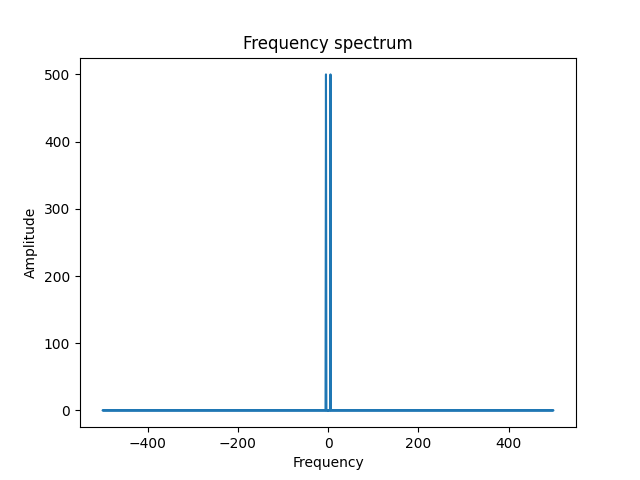
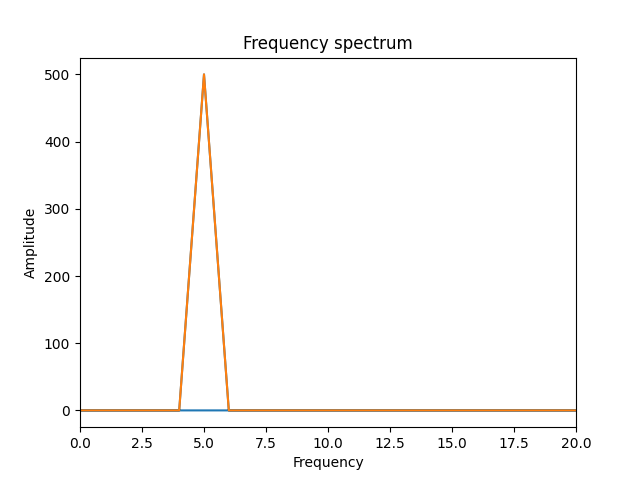
added filters

diff --git a/main.py b/main.py
@@ -2,24 +2,43 @@ import matplotlib.pyplot as plt
 import signal_generator
 import output
 import transform
+import filters
+
 
 # parameters
 fs = 1000
 freq = 5
 duration = 1
 
-# function to generate sine wave
+# generate sine wave
 t, signal = signal_generator.generate_sine(freq, fs, duration)
 output.save_plot(t, signal, "Sine Wave", "Time",
                  "Amplitude", "sine_signal.png")
 
 
-# function to add noise
+# add noise
 noisy_signal = signal_generator.add_noise(signal, 0.5)
 output.save_plot(t, noisy_signal, "Noisy sine wave",
                  "Time", "Amplitude", "noisy_signal.png")
 
-# function for transform signal
-freq, spectrum = transform.compute_fft(signal, fs)
-output.save_plot(freq, spectrum, "Frequency spectrum",
-                 "Frequency", "Amplitude", "freq_spectrum.png")
+# frequency spectrum
+freq, spectrum, N = transform.compute_fft(signal, fs)
+output.save_plot_fft(freq, spectrum, N,  "Frequency spectrum",
+                     "Frequency", "Amplitude", "freq_spectrum.png")
+
+
+# Low-pass
+lpf = filters.apply_filter(noisy_signal, fs, "low", 10)
+output.save_plot(t, lpf, "Low-pass Filtered", "Time", "Amplitude", "lpf.png")
+
+# High-pass
+hpf = filters.apply_filter(noisy_signal, fs, "high", 10)
+output.save_plot(t, hpf, "High-pass Filtered", "Time", "Amplitude", "hpf.png")
+
+# Band-pass
+bpf = filters.apply_filter(noisy_signal, fs, "band", (3, 10))
+output.save_plot(t, bpf, "Band-pass Filtered", "Time", "Amplitude", "bpf.png")
+
+# Moving average
+ma = filters.apply_filter(noisy_signal, fs, "moving_avg", 10)
+output.save_plot(t, ma, "Moving Average", "Time", "Amplitude", "ma.png")

diff --git a/filters.py b/filters.py
@@ -1,0 +1,39 @@
+from scipy.signal import butter, filtfilt
+import numpy as np
+
+
+def apply_filter(signal, fs, filter_type, cutoff, order=4):
+    """
+    Function to analyse different types of filters
+
+    Butterworth filter giving smooth response and no ripples
+    order tells how sharp the filter transition is
+    phase distortion cancelled using filtfilt()
+    """
+    nyquist = 0.5 * fs
+
+    if filter_type == "low":
+        norm_cutoff = cutoff / nyquist
+        b, a = butter(order, norm_cutoff, btype='low')
+        return filtfilt(b, a, signal)
+
+    elif filter_type == "high":
+        norm_cutoff = cutoff / nyquist
+        b, a = butter(order, norm_cutoff, btype='high')
+        return filtfilt(b, a, signal)
+
+    elif filter_type == "band":
+        low, high = cutoff
+        b, a = butter(order, [low/nyquist, high/nyquist], btype='band')
+        return filtfilt(b, a, signal)
+
+    elif filter_type == "moving_avg":
+        """
+        moving average fiter: replace each point with the average of its neighboring values
+        acting like LPF
+        """
+        window_size = int(cutoff)
+        return np.convolve(signal, np.ones(window_size)/window_size, mode='same')
+
+    else:
+        raise ValueError("Invalid filter type")

diff --git a/output.py b/output.py
@@ -15,3 +15,22 @@ def save_plot(x, y, title, xaxis, yaxis, filename):
     plt.savefig(f"results/{filename}")
     plt.close()
     print(title + " plot generated")
+
+
+def save_plot_fft(x, y, N, title, xaxis, yaxis, filename):
+    """
+    Function to generate plot for frequency spectrum
+
+    only positive frequencies taken for real signals
+    """
+    plt.figure()
+    plt.plot(x, y)
+    plt.plot(x[:N//2], y[:N//2])
+    plt.xlim(0, 20)
+    plt.title(title)
+    plt.xlabel(xaxis)
+    plt.ylabel(yaxis)
+
+    plt.savefig(f"results/{filename}")
+    plt.close()
+    print(title + " plot generated")

diff --git a/transform.py b/transform.py
@@ -9,4 +9,4 @@ def compute_fft(signal, fs):
     """
     fft_val = np.fft.fft(signal)
     freqs = np.fft.fftfreq(len(signal), 1/fs)
-    return freqs, abs(fft_val)
+    return freqs, abs(fft_val), len(signal)

diff --git a/README.md b/README.md
@@ -4,3 +4,21 @@ This project demonstrates:
 - Signal generation
 - FFT analysis
 - Filtering
+
+1. Signal generation and noise addition: 
+        - a sine signal is generated
+        - a noisy signal added to sine signal
+        - signal_genarator.py
+
+2. FFT analysis:
+        - frequency of the signal is analysed
+        - FFT is carried out
+        - transform.py
+
+3. Digital filtering:
+        - filtering of the signal is carried out
+        - different types of filters analysed -- low pass, high pass, bandpass, moving average
+        - Butterworth filter is used
+        - filters.py
+
+***all plots generated using outputs.py & saved in /results folder
